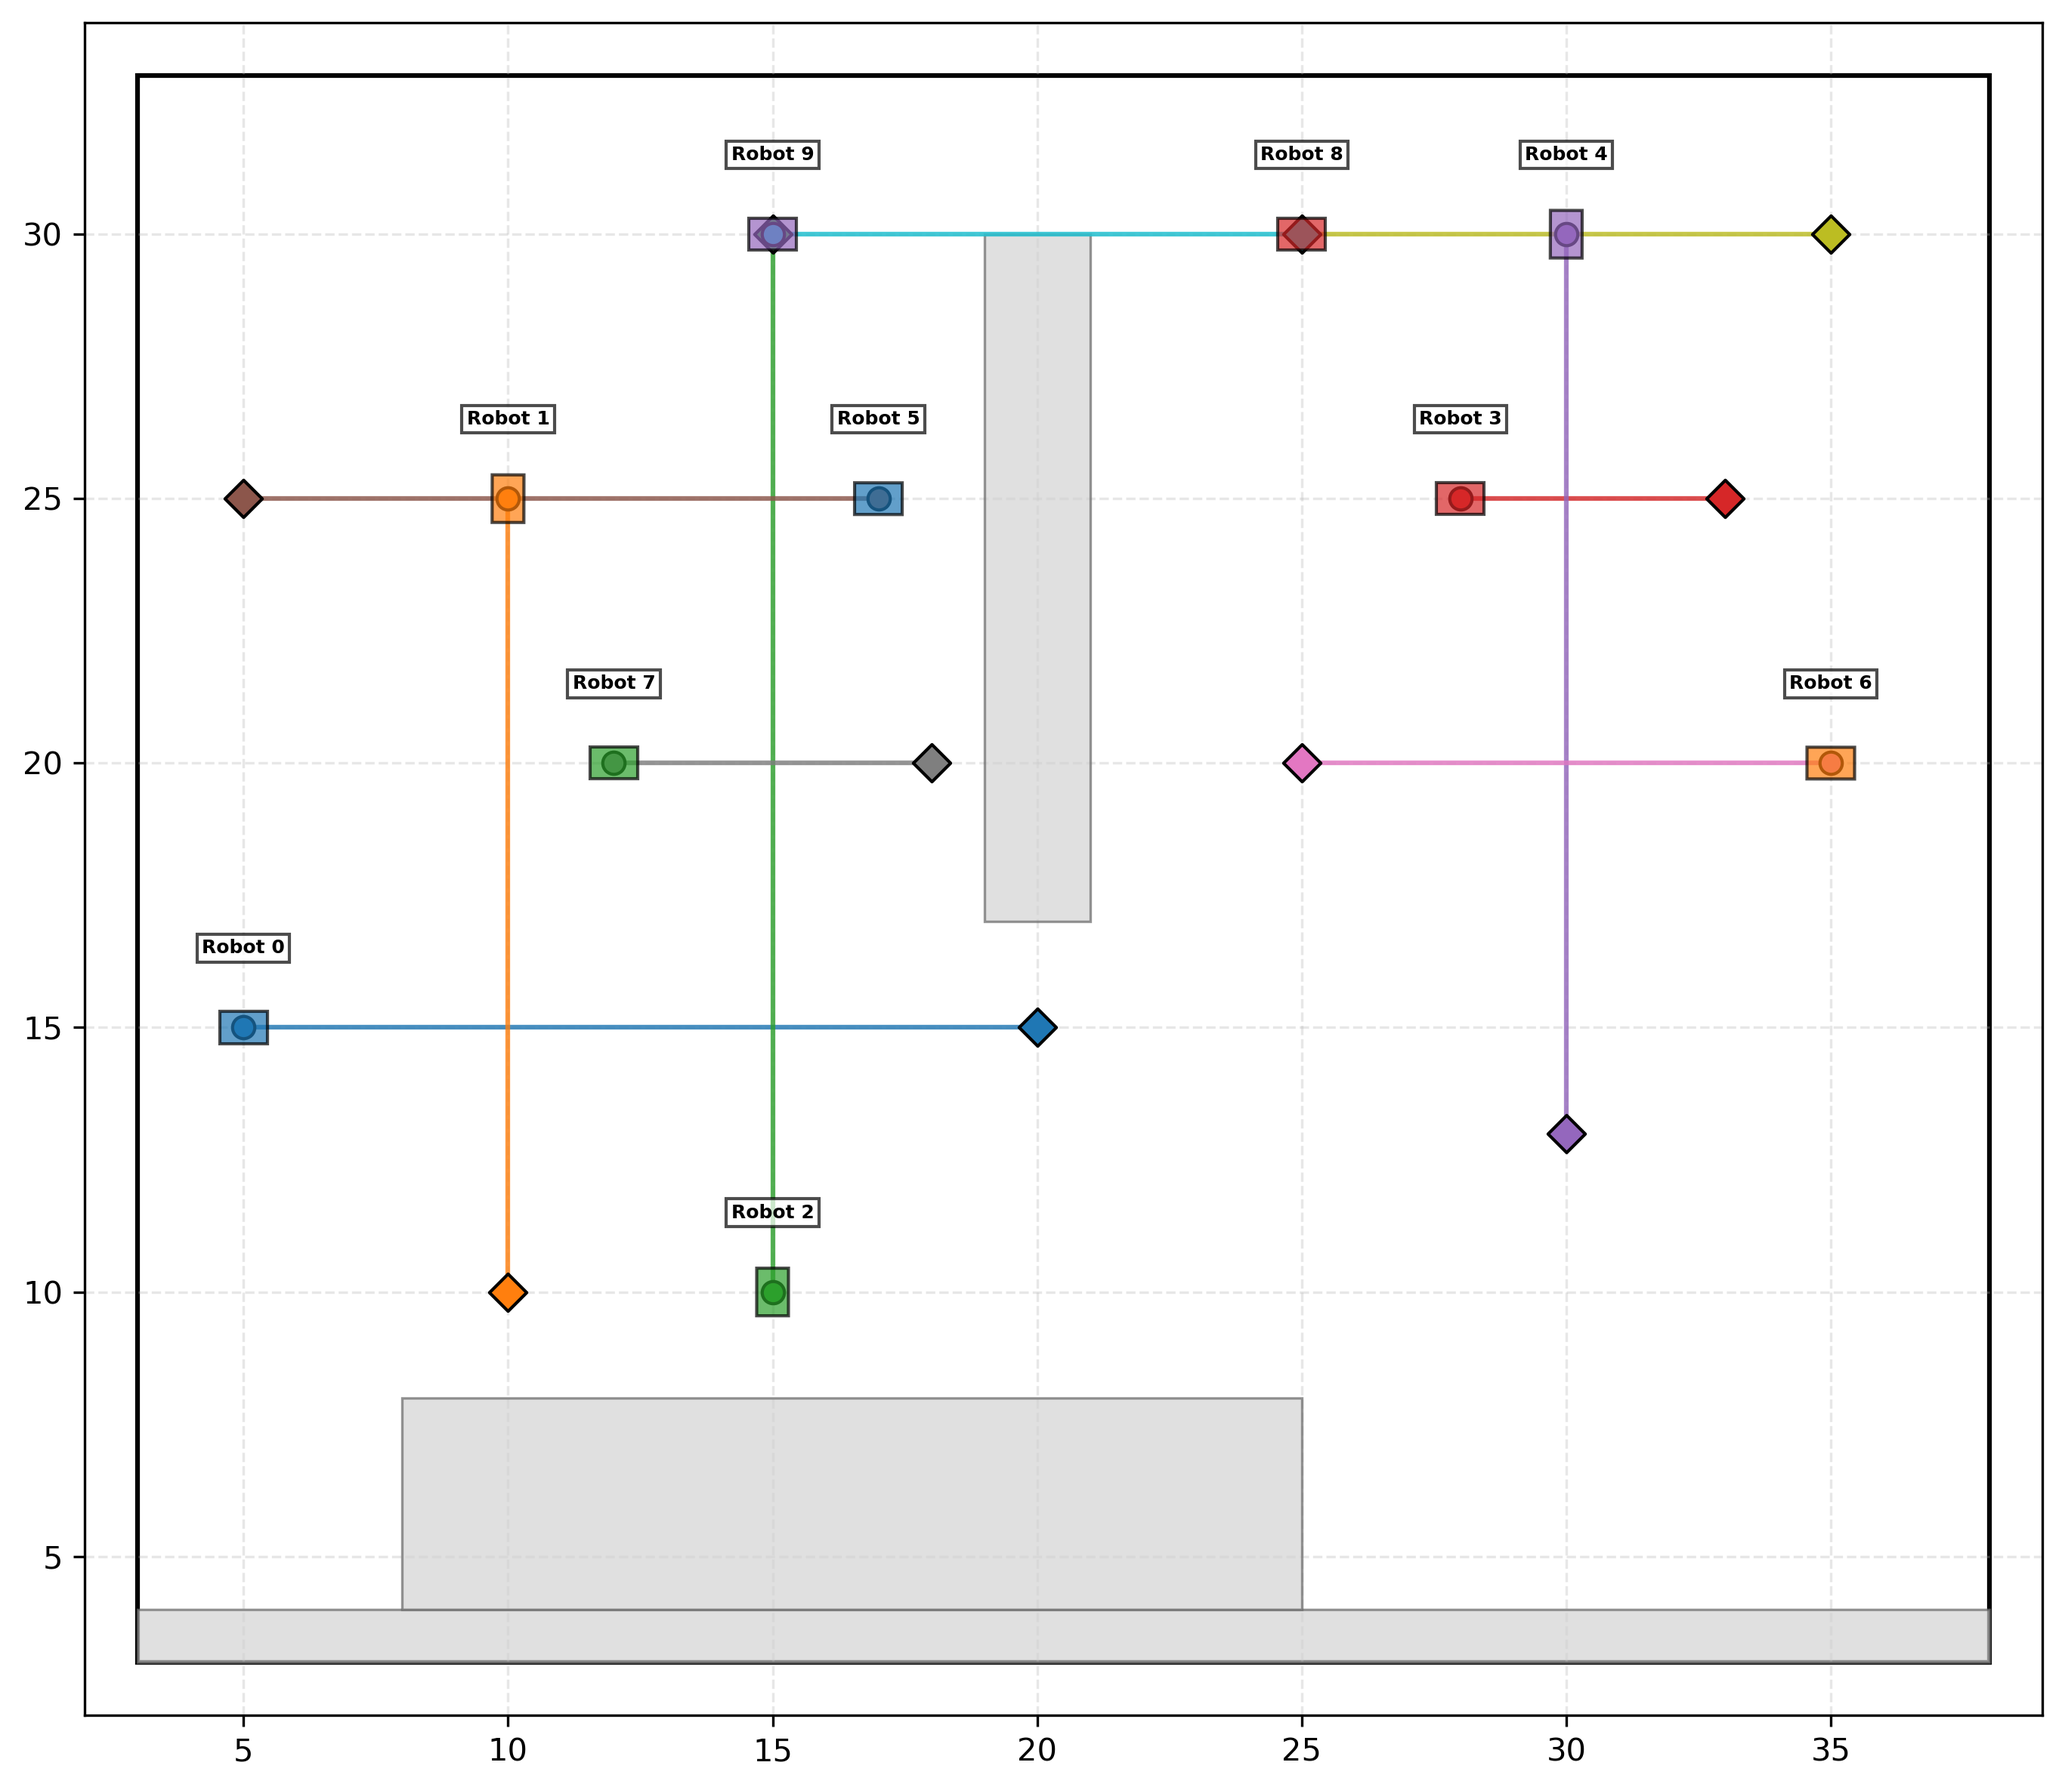
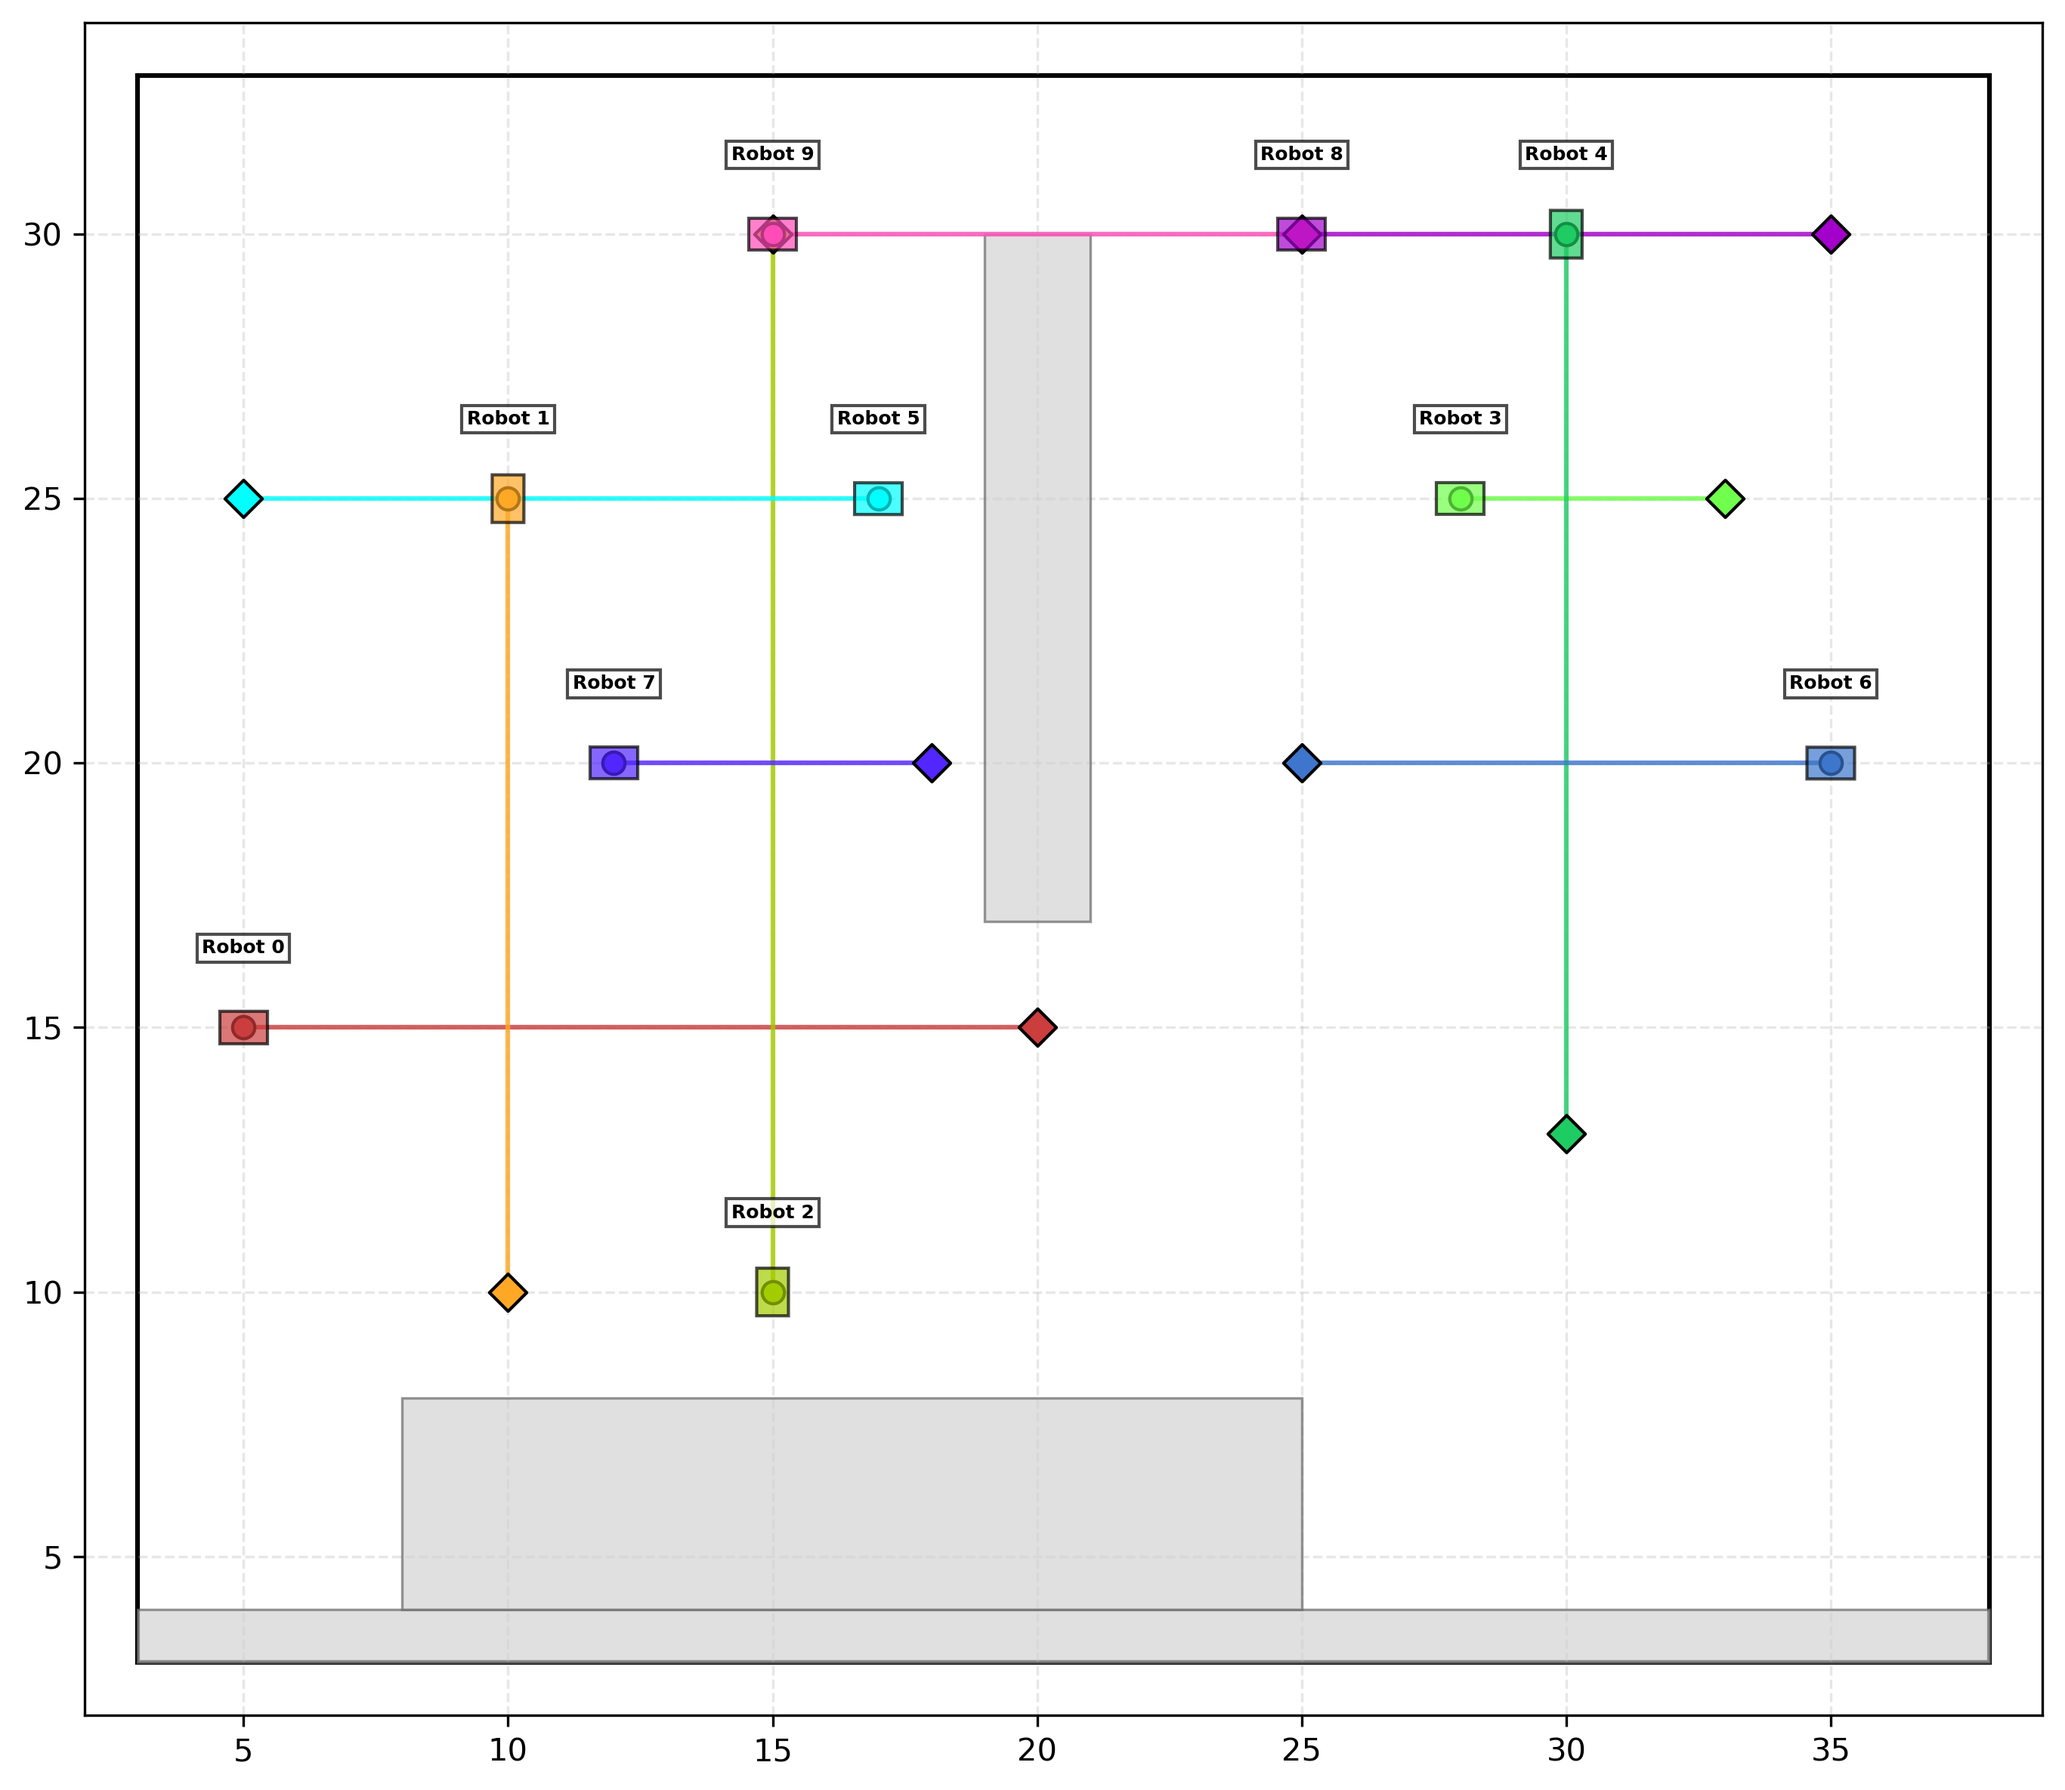
upload image of many amr

diff --git a/draw_graph.py b/draw_graph.py
@@ -2,10 +2,9 @@ import json
 import os
 import numpy as np
 import matplotlib.pyplot as plt
-from matplotlib.patches import Polygon, Rectangle
-import matplotlib.colors as mcolors
+from matplotlib.patches import Polygon
 from matplotlib.collections import LineCollection
-import math
+import colorsys
 
 def load_json_file(file_path):
     """Load JSON data from file"""
@@ -29,26 +28,38 @@ def draw_map(ax, map_data):
                           zorder=2)
         ax.add_patch(obs_patch)
 
+def generate_distinct_colors(n):
+    """Generate n visually distinct colors using HSV color space"""
+    colors = []
+    for i in range(n):
+        # Distribute hues evenly around the color wheel
+        h = i / n
+        # Keep saturation and value high for vibrant, distinct colors
+        s = 0.7 + 0.3 * (i % 3) / 2  # Slight variation in saturation
+        v = 0.8 + 0.2 * (i % 2)      # Slight variation in value
+        
+        # Convert HSV to RGB
+        rgb = colorsys.hsv_to_rgb(h, s, v)
+        
+        # Convert to hex
+        hex_color = '#%02x%02x%02x' % (int(rgb[0]*255), int(rgb[1]*255), int(rgb[2]*255))
+        colors.append(hex_color)
+    
+    return colors
+
 def draw_graph(ax, graph_data, robot_data, schedule_path=None):
     """Draw the graph nodes and edges with paths colored according to robots"""
     node_dict = graph_data['node_dict']
     edge_list = graph_data['edge_list']
     
-    # Extended color palette for up to 10 robots
-    robot_colors = [
-        '#1f77b4',  # blue
-        '#ff7f0e',  # orange
-        '#2ca02c',  # green
-        '#d62728',  # red
-        '#9467bd',  # purple
-        '#8c564b',  # brown
-        '#e377c2',  # pink
-        '#7f7f7f',  # gray
-        '#bcbd22',  # olive
-        '#17becf'   # teal
-    ]
+    # Get robot IDs from the robot_data
+    robot_ids = list(robot_data.keys())
     
-    robot_color_map = {str(i): robot_colors[i % len(robot_colors)] for i in range(len(robot_data))}
+    # Generate distinct colors for all robots
+    robot_colors = generate_distinct_colors(len(robot_ids))
+    
+    # Create a consistent color mapping using actual robot IDs
+    robot_color_map = {robot_id: robot_colors[i] for i, robot_id in enumerate(robot_ids)}
     
     # Load schedule from CSV
     robot_paths = {}
@@ -181,20 +192,21 @@ def draw_graph(ax, graph_data, robot_data, schedule_path=None):
                     else:
                         ax.scatter(node_pos[0], node_pos[1], c=color, s=25, marker='o', 
                                  edgecolors='black', linewidth=0.5, alpha=0.7, zorder=5)
+    
+    # Return the color mapping for use in draw_robots
+    return robot_color_map
 
-def draw_robots(ax, robot_data):
+def draw_robots(ax, robot_data, robot_color_map):
     """Draw robots as rectangles with orientation"""
-    robot_colors = ['#1f77b4', '#ff7f0e', '#2ca02c', '#d62728', '#9467bd']
     robot_width = 0.6  # 0.6m wide
     robot_length = 0.9  # 0.9m long
     
-    for i, (robot_id, robot_info) in enumerate(robot_data.items()):
+    for robot_id, robot_info in robot_data.items():
         x, y, theta = robot_info
         
-        # Calculate center point for rectangle
-        color = robot_colors[i % len(robot_colors)]
+        # Use the same color mapping from draw_graph
+        color = robot_color_map.get(robot_id, '#000000')  # Default to black if not found
         
-
         bl_x, bl_y = -robot_length/2, -robot_width/2
         
         corners = [
@@ -243,8 +255,8 @@ def visualize_environment(map_path, graph_path, robot_path, output_path=None, sc
     
     # Draw components
     draw_map(ax, map_data)
-    draw_graph(ax, graph_data, robot_data, schedule_path)  # Pass schedule_path to draw_graph
-    draw_robots(ax, robot_data)
+    robot_color_map = draw_graph(ax, graph_data, robot_data, schedule_path)  # Get the color map
+    draw_robots(ax, robot_data, robot_color_map)  # Pass the color map to draw_robots
     
     # Remove title and axis labels
     ax.set_xlabel('')
@@ -264,7 +276,6 @@ def visualize_environment(map_path, graph_path, robot_path, output_path=None, sc
     # Add grid and legend
     ax.grid(True, linestyle='--', alpha=0.3)
     
-    
     # Force equal aspect ratio to ensure correct scaling
     ax.set_aspect('equal', 'box')
     
@@ -281,7 +292,7 @@ def visualize_environment(map_path, graph_path, robot_path, output_path=None, sc
 
 if __name__ == "__main__":
     # Example usage with the provided JSON files
-    file_path = "data/test_data_cross/"
+    file_path = "data/many_AMR/"
     map_file = "map.json"
     graph_file = "graph.json"
     robot_file = "robot_start.json"
